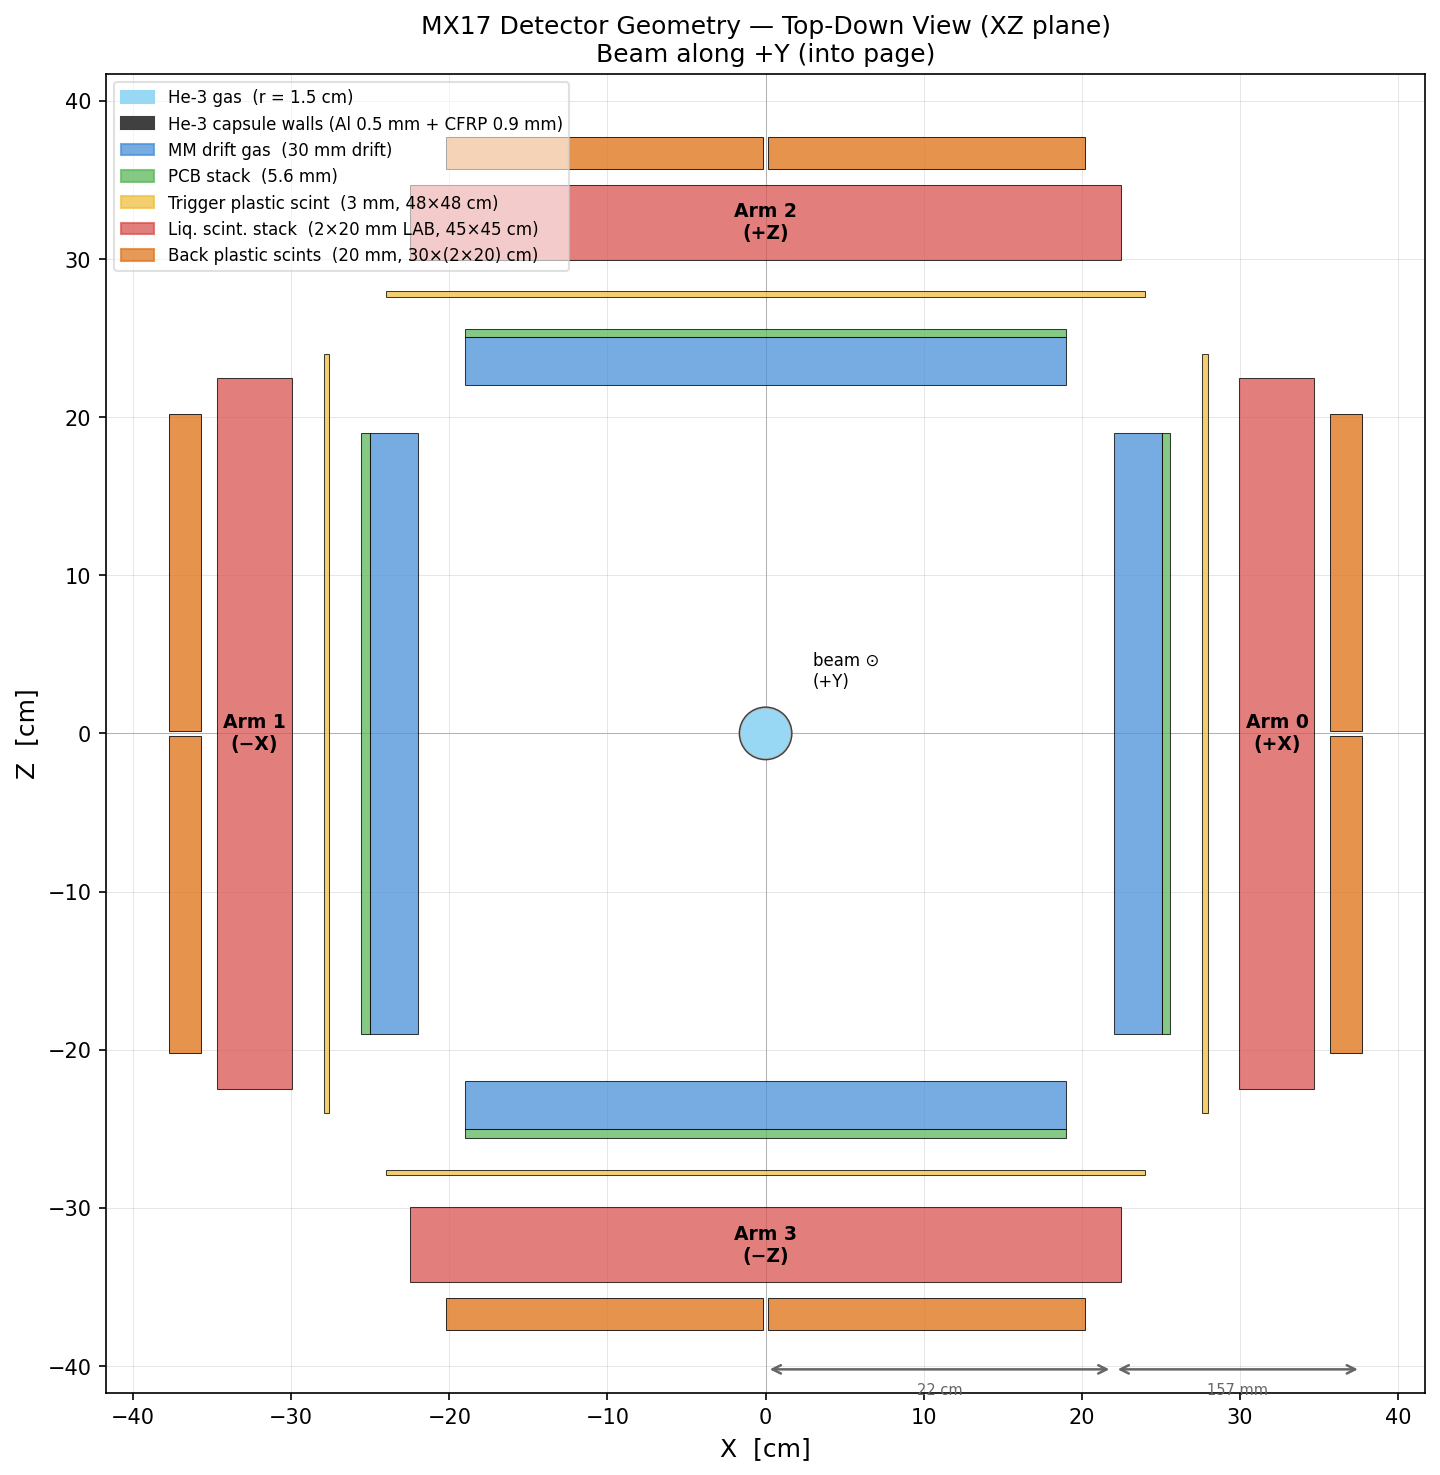
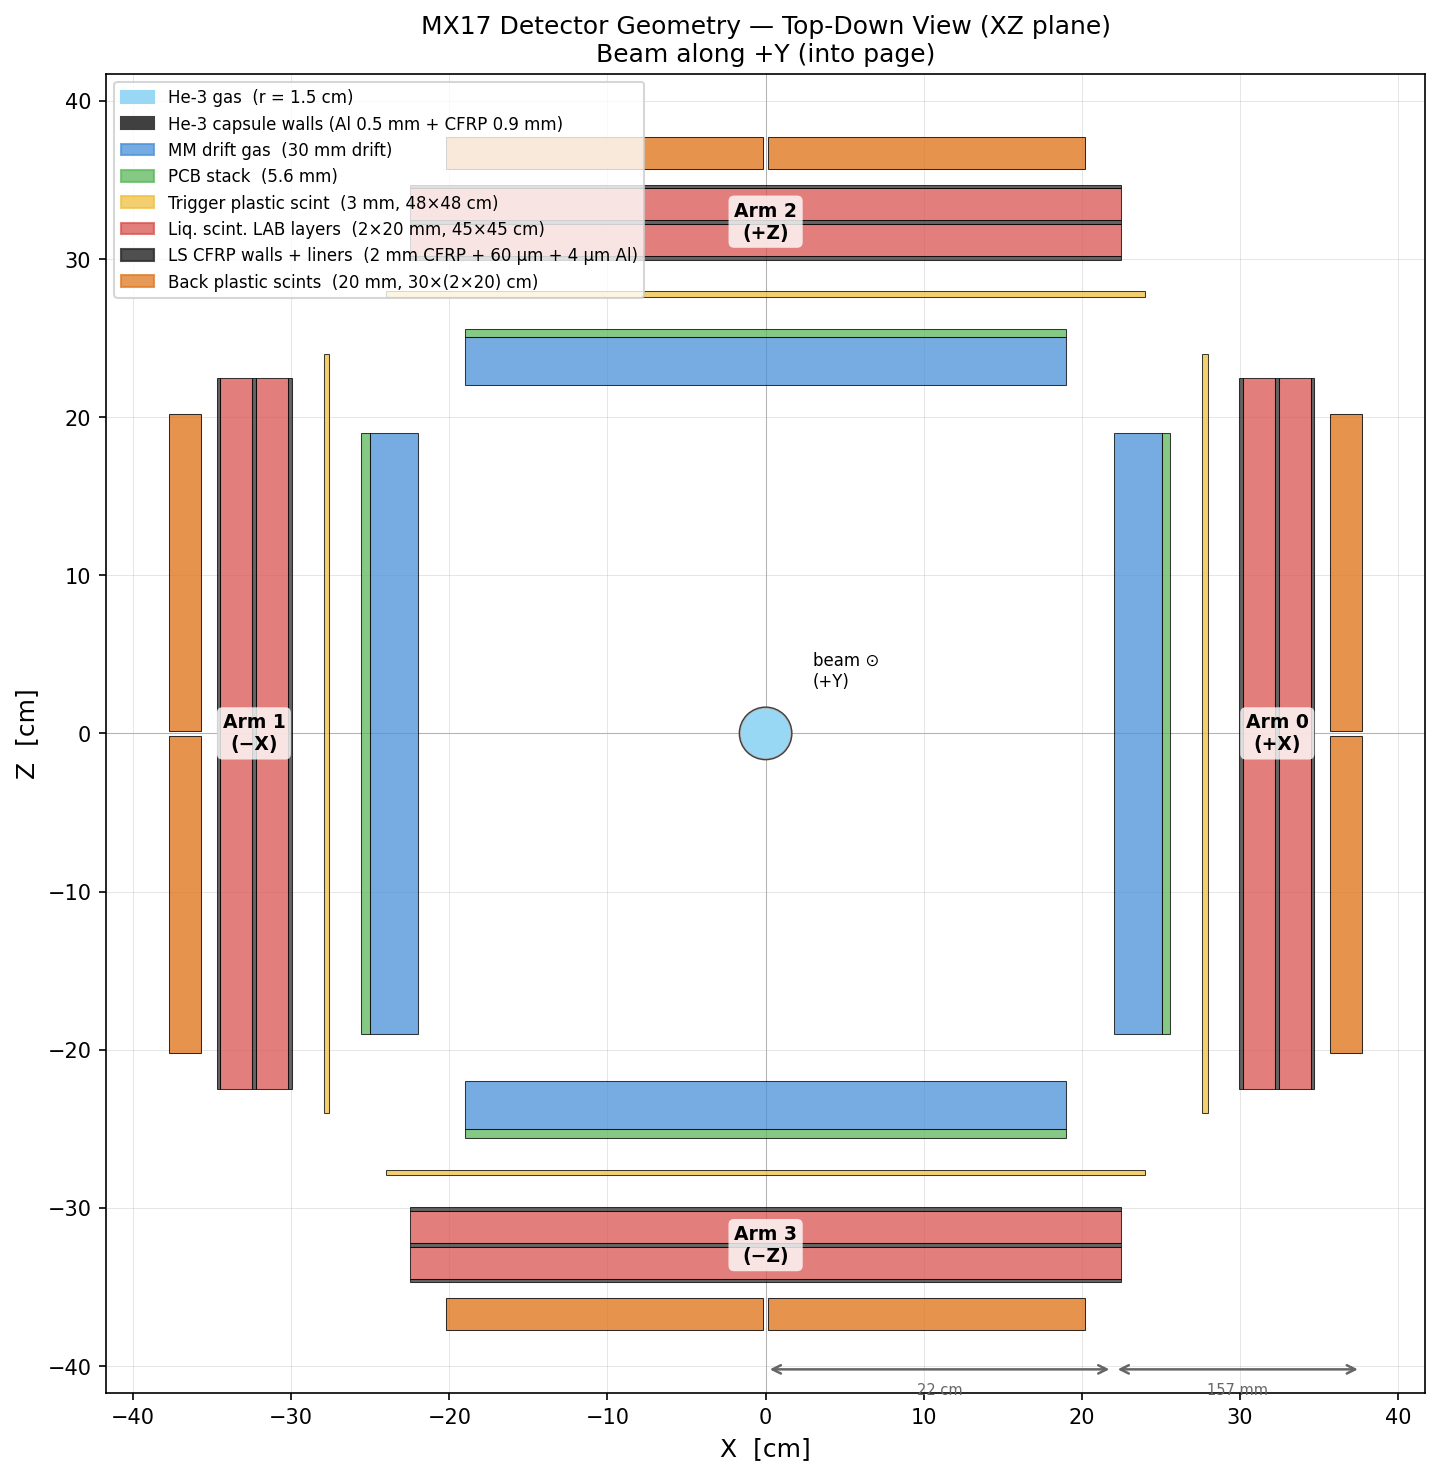
Updated plot_geometry.py and hopefully fixed a bug in submit_pairs.py

diff --git a/scripts/plot_geometry.py b/scripts/plot_geometry.py
@@ -103,6 +103,19 @@ w_LS_f   = w_sc_b  + gap3;    w_LS_b   = w_LS_f   + t_LS
 w_bsc_f  = w_LS_b  + gap4;    w_bsc_b  = w_bsc_f  + t_bsc
 stack_depth = w_bsc_b
 
+# LS sub-layer positions (within the LS stack):
+#   CFRP_1 | InnerCFRP_1+Al_1 | LAB_1 | CFRP_2 | InnerCFRP_2+Al_2 | LAB_2 | CFRP_3
+_lsDivFront_f = w_LS_f
+_lsDivFront_b = w_LS_f + tLSCfrp + tLSInnerCfrp + tLSInnerAl   # front wall + liners
+_wLS1_f       = _lsDivFront_b
+_wLS1_b       = _wLS1_f + tLS
+_lsDivMid_f   = _wLS1_b
+_lsDivMid_b   = _wLS1_b + tLSCfrp + tLSInnerCfrp + tLSInnerAl  # middle wall + liners
+_wLS2_f       = _lsDivMid_b
+_wLS2_b       = _wLS2_f + tLS
+_lsDivRear_f  = _wLS2_b
+_lsDivRear_b  = w_LS_b                                            # rear CFRP wall
+
 
 # ─────────────────────────────────────────────────────────────────────────────
 # Arm geometry
@@ -133,10 +146,14 @@ bsc_u_offset = bscTape_hu + bsc_gap / 2.0   # 12.52 + 0.15 = 12.67 cm
 # Standard slab layers for 2D/3D
 # Back scints are omitted here and handled separately in each plot function.
 LAYERS_2D = [
-    ('MM',       w_MM_f,  w_MM_b,  'mm',    'mm',    '#4a90d9'),
-    ('PCB',      w_PCB_f, w_PCB_b, 'mm',    'mm',    '#5cb85c'),
-    ('PlScint',  w_sc_f,  w_sc_b,  'scint', 'scint', '#f0c040'),
-    ('LiqScint', w_LS_f,  w_LS_b,  'ls',    'ls',    '#d9534f'),
+    ('MM',        w_MM_f,        w_MM_b,        'mm',    'mm',    '#4a90d9'),
+    ('PCB',       w_PCB_f,       w_PCB_b,       'mm',    'mm',    '#5cb85c'),
+    ('PlScint',   w_sc_f,        w_sc_b,        'scint', 'scint', '#f0c040'),
+    ('LS_CFRP',   _lsDivFront_f, _lsDivFront_b, 'ls',    'ls',    '#303030'),
+    ('LiqScint1', _wLS1_f,       _wLS1_b,       'ls',    'ls',    '#d9534f'),
+    ('LS_CFRP',   _lsDivMid_f,   _lsDivMid_b,   'ls',    'ls',    '#303030'),
+    ('LiqScint2', _wLS2_f,       _wLS2_b,       'ls',    'ls',    '#d9534f'),
+    ('LS_CFRP',   _lsDivRear_f,  _lsDivRear_b,  'ls',    'ls',    '#303030'),
 ]
 
 he3_r       = 1.5   # radius = 1.5 cm  → diameter = 3 cm
@@ -187,7 +204,9 @@ def plot_2d_topdown():
         loff = ff / np.linalg.norm(ff) * 2.5
         ax.text(mid[0]+loff[0], mid[2]+loff[2],
                 f"Arm {arm['id']}\n({arm['label']})",
-                ha='center', va='center', fontsize=9, fontweight='bold', zorder=5)
+                ha='center', va='center', fontsize=9, fontweight='bold', zorder=5,
+                bbox=dict(boxstyle='round,pad=0.3', facecolor='white',
+                          edgecolor='none', alpha=0.8))
 
     # Back plastic scints — two individual bars per arm with gap visible
     for arm in ARM_DEF:
@@ -211,11 +230,13 @@ def plot_2d_topdown():
         mpatches.Patch(color='#f0c040', alpha=0.75,
                        label=f'Trigger plastic scint  ({tPlScint*10:.0f} mm, 48×48 cm)'),
         mpatches.Patch(color='#d9534f', alpha=0.75,
-                       label=f'Liq. scint. stack  (2×{tLS*10:.0f} mm LAB, {CFG["ls_size_u_cm"]:.0f}×{CFG["ls_size_v_cm"]:.0f} cm)'),
+                       label=f'Liq. scint. LAB layers  (2×{tLS*10:.0f} mm, {CFG["ls_size_u_cm"]:.0f}×{CFG["ls_size_v_cm"]:.0f} cm)'),
+        mpatches.Patch(color='#303030', alpha=0.85,
+                       label=f'LS CFRP walls + liners  ({tLSCfrp*10:.0f} mm CFRP + {tLSInnerCfrp*1e3:.0f} µm + {tLSInnerAl*1e3:.0f} µm Al)'),
         mpatches.Patch(color='#e07820', alpha=0.75,
                        label=f'Back plastic scints  ({int(bsc_u)} mm, {int(bsc_v)}×(2×{int(bsc_th*10)}) cm)'),
     ]
-    ax.legend(handles=legend_patches, loc='upper left', fontsize=8, framealpha=0.6)
+    ax.legend(handles=legend_patches, loc='upper left', fontsize=8, framealpha=0.8)
 
     lim = dist + stack_depth + 4
     ax.set_xlim(-lim, lim);  ax.set_ylim(-lim, lim)
@@ -261,8 +282,13 @@ def plot_3d_pyvista(out_path=None, interactive=True):
          f'PCB stack  ({t_PCB*10:.1f} mm)'),
         ('SC',  w_sc_f,  w_sc_b,  'scint', (0.94, 0.75, 0.25), 0.85,
          f'Trigger plastic scint  ({tPlScint*10:.0f} mm, 48×48 cm)'),
-        ('LS',  w_LS_f,  w_LS_b,  'ls',    (0.85, 0.33, 0.31), 0.70,
-         f'Liq. scint. stack  (2×{tLS*10:.0f} mm LAB, {CFG["ls_size_u_cm"]:.0f}×{CFG["ls_size_v_cm"]:.0f} cm)'),
+        ('LS_CFRP', _lsDivFront_f, _lsDivFront_b, 'ls', (0.20, 0.20, 0.20), 0.85,
+         f'LS CFRP walls + liners  ({tLSCfrp*10:.0f} mm + {tLSInnerCfrp*1e3:.0f} µm + {tLSInnerAl*1e3:.0f} µm Al)'),
+        ('LS',  _wLS1_f, _wLS1_b, 'ls', (0.85, 0.33, 0.31), 0.70,
+         f'Liq. scint. LAB layers  (2×{tLS*10:.0f} mm, {CFG["ls_size_u_cm"]:.0f}×{CFG["ls_size_v_cm"]:.0f} cm)'),
+        ('LS_CFRP', _lsDivMid_f,  _lsDivMid_b,  'ls', (0.20, 0.20, 0.20), 0.85, None),
+        ('LS',  _wLS2_f, _wLS2_b, 'ls', (0.85, 0.33, 0.31), 0.70, None),
+        ('LS_CFRP', _lsDivRear_f, _lsDivRear_b, 'ls', (0.20, 0.20, 0.20), 0.85, None),
     ]
     bsc_col   = (0.88, 0.47, 0.13)
     bsc_label = f'Back plastic scints  ({int(bsc_u)}mm, {int(bsc_v)}×(2×{int(bsc_th*10)}) cm)'

diff --git a/scripts/submit_pairs.py b/scripts/submit_pairs.py
@@ -83,8 +83,12 @@ def write_wrapper(job_dir: Path, exe: str, setup_script: str) -> Path:
     wrapper = job_dir / "run_pairs_job.sh"
     wrapper.write_text(textwrap.dedent(f"""\
         #!/usr/bin/env bash
-        set -euo pipefail
+        set -eo pipefail
+        # Disable -u around setup sourcing: LCG/GCC scripts may reference
+        # unset variables internally before they define them.
+        set +u
         source "{setup_script}"
+        set -u
 
         OUTFILE="$1"
         NEVENTS="$2"
